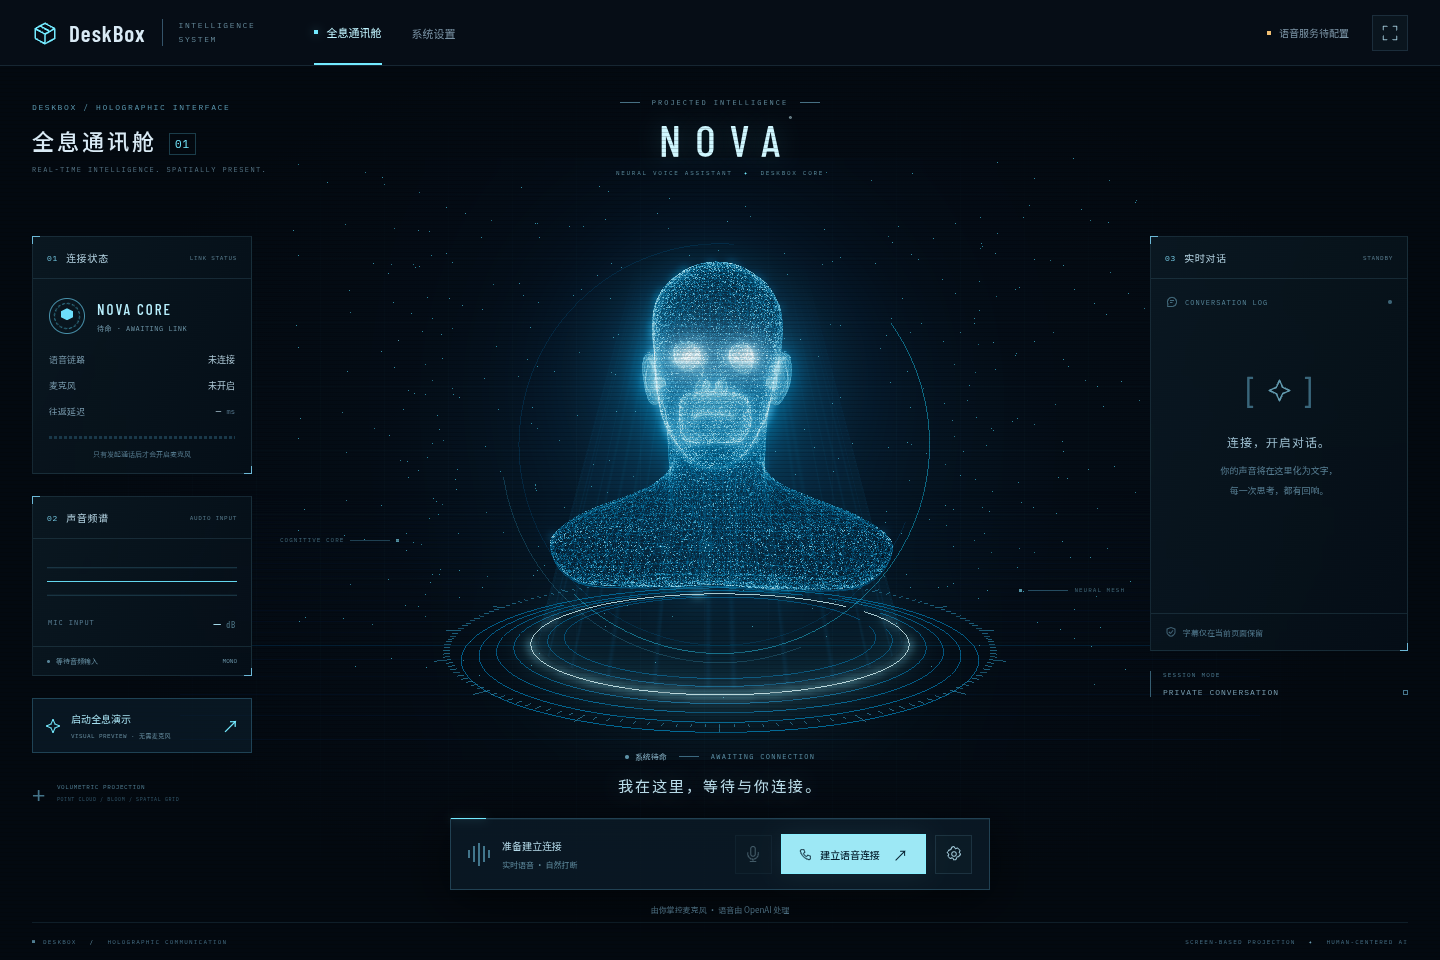
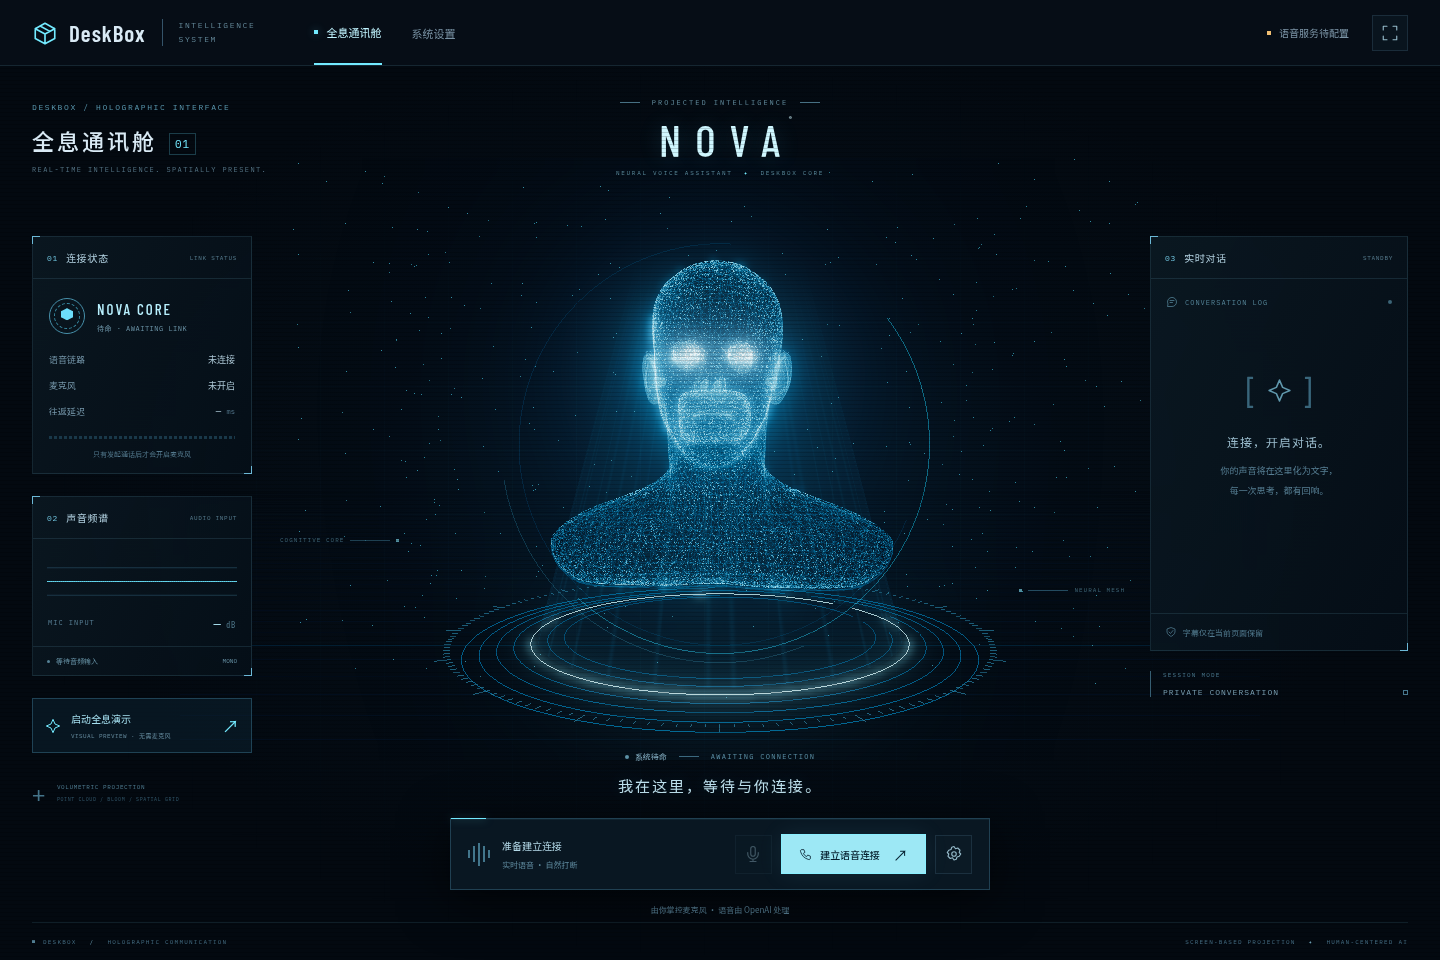
Keep audio visualization from blocking calls and refresh chamber preview

Changed region(s): [[0.375, 0.25, 0.625, 0.625]]

diff --git a/public/app.js b/public/app.js
@@ -217,7 +217,9 @@ async function startCall() {
       analyser.fftSize = 256;
       session.samples = new Uint8Array(analyser.frequencyBinCount);
       context.createMediaStreamSource(stream).connect(analyser);
-      await context.resume();
+      // Browser autoplay rules may keep this promise pending until another click.
+      // Optional visualization must never block the actual voice connection.
+      context.resume().catch(() => {});
     } catch { /* Audio visualization is optional. */ }
     if (session !== current) return;
     const offer = await peer.createOffer();
@@ -267,6 +269,7 @@ previewButton.addEventListener('click', () => {
   notice(preview ? '正在预览全息动态效果 · 未开启麦克风，未连接 AI' : '麦克风仅在你发起通话后开启');
 });
 document.addEventListener('click', () => {
+  current?.context?.resume().catch(() => {});
   if (state === 'connected' && audio.paused && audio.srcObject) audio.play().then(() => notice('声音播放已恢复。')).catch(() => {});
 });
 window.addEventListener('pagehide', stopCall);
